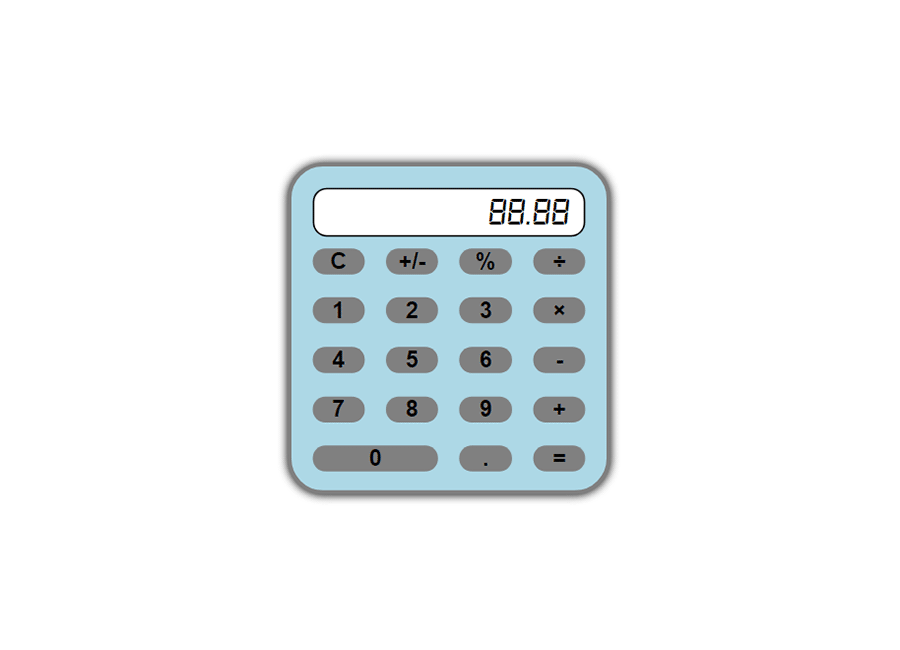
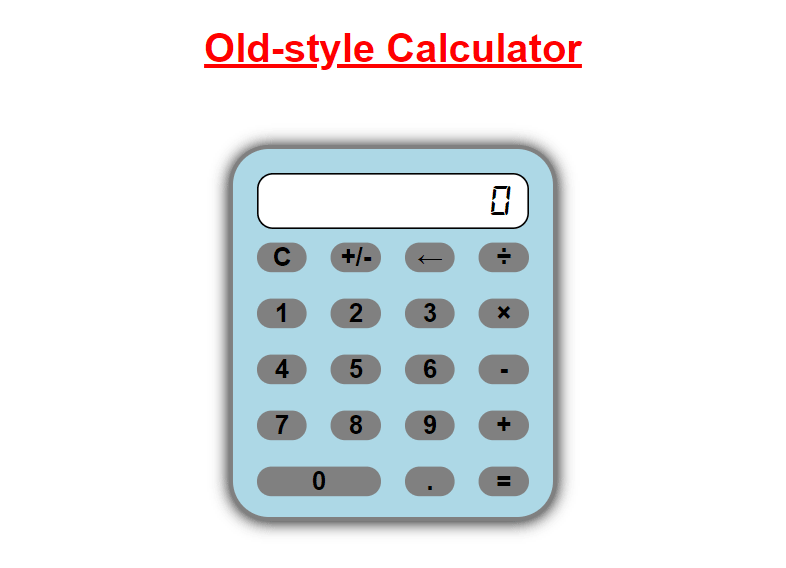
adding more projects

Changed region(s): [[0.2748, 0.2394, 0.7328, 0.9577], [0.2443, 0.0599, 0.7328, 0.1197]]

diff --git a/index.html b/index.html
@@ -140,7 +140,7 @@
       <h2 class="text-center text-uppercase text-white">Portfolio</h2>
       <hr class="star-light mb-5">
       <div class="row">
-        <div class="col-md-6 col-lg-4">
+        <div class="col-md-6 col-lg-3">
           <a class="portfolio-item d-block mx-auto" href="#portfolio-modal-1">
             <div class="portfolio-item-caption d-flex position-absolute h-100 w-100">
               <div class="portfolio-item-caption-content my-auto w-100 text-center">
@@ -150,7 +150,7 @@
             <img class="img-fluid" src="img/portfolio/magicbrain.png" alt="">
           </a>
         </div>
-        <div class="col-md-6 col-lg-4">
+        <div class="col-md-6 col-lg-3">
           <a class="portfolio-item d-block mx-auto" href="#portfolio-modal-2">
             <div class="portfolio-item-caption d-flex position-absolute h-100 w-100">
               <div class="portfolio-item-caption-content my-auto w-100 text-center">
@@ -160,18 +160,8 @@
             <img class="img-fluid" src="img/portfolio/starwarsguide.png" alt="">
           </a>
         </div>
-        <div class="col-md-6 col-lg-4">
+        <div class="col-md-6 col-lg-3">
           <a class="portfolio-item d-block mx-auto" href="#portfolio-modal-3">
-            <div class="portfolio-item-caption d-flex position-absolute h-100 w-100">
-              <div class="portfolio-item-caption-content my-auto w-100 text-center">
-                <i class="fas fa-search-plus fa-3x"></i>
-              </div>
-            </div>
-            <img class="img-fluid" src="img/portfolio/robofriends.png" alt="">
-          </a>
-        </div>
-        <div class="col-md-6 col-lg-4">
-          <a class="portfolio-item d-block mx-auto" href="#portfolio-modal-4">
             <div class="portfolio-item-caption d-flex position-absolute h-100 w-100">
               <div class="portfolio-item-caption-content my-auto w-100 text-center">
                 <i class="fas fa-search-plus fa-3x"></i>
@@ -180,8 +170,38 @@
             <img class="img-fluid" src="img/portfolio/solar-studio.jpg" alt="">
           </a>
         </div>
-        <div class="col-md-6 col-lg-4">
+        <div class="col-md-6 col-lg-3">
+          <a class="portfolio-item d-block mx-auto" href="#portfolio-modal-4">
+            <div class="portfolio-item-caption d-flex position-absolute h-100 w-100">
+              <div class="portfolio-item-caption-content my-auto w-100 text-center">
+                <i class="fas fa-search-plus fa-3x"></i>
+              </div>
+            </div>
+            <img class="img-fluid" src="img/portfolio/robofriends.png" alt="">
+          </a>
+        </div>
+        <div class="col-md-6 col-lg-3">
           <a class="portfolio-item d-block mx-auto" href="#portfolio-modal-5">
+            <div class="portfolio-item-caption d-flex position-absolute h-100 w-100">
+              <div class="portfolio-item-caption-content my-auto w-100 text-center">
+                <i class="fas fa-search-plus fa-3x"></i>
+              </div>
+            </div>
+            <img class="img-fluid" src="img/portfolio/landingpage.png" alt="">
+          </a>
+        </div>
+        <div class="col-md-6 col-lg-3">
+          <a class="portfolio-item d-block mx-auto" href="#portfolio-modal-6">
+            <div class="portfolio-item-caption d-flex position-absolute h-100 w-100">
+              <div class="portfolio-item-caption-content my-auto w-100 text-center">
+                <i class="fas fa-search-plus fa-3x"></i>
+              </div>
+            </div>
+            <img class="img-fluid" src="img/portfolio/calculator.png" alt="">
+          </a>
+        </div>
+        <div class="col-md-6 col-lg-3">
+          <a class="portfolio-item d-block mx-auto" href="#portfolio-modal-7">
             <div class="portfolio-item-caption d-flex position-absolute h-100 w-100">
               <div class="portfolio-item-caption-content my-auto w-100 text-center">
                 <i class="fas fa-search-plus fa-3x"></i>
@@ -190,8 +210,8 @@
             <img class="img-fluid" src="img/portfolio/shoppinglist.png" alt="">
           </a>
         </div>
-        <div class="col-md-6 col-lg-4">
-          <a class="portfolio-item d-block mx-auto" href="#portfolio-modal-6">
+        <div class="col-md-6 col-lg-3">
+          <a class="portfolio-item d-block mx-auto" href="#portfolio-modal-8">
             <div class="portfolio-item-caption d-flex position-absolute h-100 w-100">
               <div class="portfolio-item-caption-content my-auto w-100 text-center">
                 <i class="fas fa-search-plus fa-3x"></i>
@@ -211,7 +231,7 @@
       <hr class="star-dark mb-5">
       <div class="row">
         <div class="col-lg-8 mx-auto">
-          <form name="sentMessage" id="contactForm" novalidate="novalidate" action="http://localhost:3000/" method="POST">
+          <form name="sentMessage" id="contactForm" novalidate="novalidate" action="https://formspree.io/guilherme.brunner@gmail.com" method="POST">
             <div class="control-group">
               <div class="form-group controls">
                 <label>Name</label>
@@ -366,8 +386,36 @@
     </div>
   </div>
 
-  <!-- Portfolio Modal 3 -->
+    <!-- Portfolio Modal 3 -->
   <div class="portfolio-modal mfp-hide" id="portfolio-modal-3">
+    <div class="portfolio-modal-dialog bg-white">
+      <a class="close-button d-none d-md-block portfolio-modal-dismiss" href="#">
+        <i class="fa fa-3x fa-times"></i>
+      </a>
+      <div class="container text-center">
+          <div>
+            <h2 class="text-secondary text-uppercase text-center mb-0">Architecture & Engineering Firm Website</h2>
+            <hr class="star-dark">
+            <div class="modal-row">
+              <img class="img-modal" src="img/portfolio/solar-studio.jpg" alt="">
+              <p class="mb-2 mt-2 desc">A responsive and mobile friendly firm website. Currently under construction.<br>HMTL | CSS | JAVASCRIPT</p>
+            </div>
+            <div class="button-row-column">
+                <a class="btn btn-primary btn-lg rounded-pill" href="https://solarstudio.netlify.com/" target='_blank'>
+                  <i class="fa fa-close"></i>Live Preview
+                </a>                      
+                <a class="btn btn-primary btn-lg rounded-pill portfolio-modal-dismiss" href="#">
+                  <i class="fa fa-close"></i>
+                  Close Project
+                </a>             
+            </div>
+          </div>
+      </div>
+    </div>
+  </div>
+
+  <!-- Portfolio Modal 4 -->
+  <div class="portfolio-modal mfp-hide" id="portfolio-modal-4">
     <div class="portfolio-modal-dialog bg-white">
       <a class="close-button d-none d-md-block portfolio-modal-dismiss" href="#">
         <i class="fa fa-3x fa-times"></i>
@@ -397,22 +445,22 @@
     </div>
   </div>
 
-    <!-- Portfolio Modal 4 -->
-  <div class="portfolio-modal mfp-hide" id="portfolio-modal-4">
+  <!-- Portfolio Modal 5 -->
+  <div class="portfolio-modal mfp-hide" id="portfolio-modal-5">
     <div class="portfolio-modal-dialog bg-white">
       <a class="close-button d-none d-md-block portfolio-modal-dismiss" href="#">
         <i class="fa fa-3x fa-times"></i>
       </a>
       <div class="container text-center">
           <div>
-            <h2 class="text-secondary text-uppercase text-center mb-0">Architecture & Engineering Firm Website</h2>
+            <h2 class="text-secondary text-uppercase text-center mb-0">App Landing Page</h2>
             <hr class="star-dark">
             <div class="modal-row">
-              <img class="img-modal" src="img/portfolio/solar-studio.jpg" alt="">
-              <p class="mb-2 mt-2 desc">A responsive and mobile friendly firm website. Still under construction.<br>HMTL | CSS | JAVASCRIPT</p>
+              <img class="img-modal" src="img/portfolio/landingpage.png" alt="">
+              <p class="mb-2 mt-2 desc">An app landing page with Product Information and Contact Form. Currently under construction<br>HMTL | CSS</p>
             </div>
             <div class="button-row-column">
-                <a class="btn btn-primary btn-lg rounded-pill" href="https://solarstudio.netlify.com/" target='_blank'>
+                <a class="btn btn-primary btn-lg rounded-pill" href="https://transporte-escolar.netlify.com/" target='_blank'>
                   <i class="fa fa-close"></i>Live Preview
                 </a>                      
                 <a class="btn btn-primary btn-lg rounded-pill portfolio-modal-dismiss" href="#">
@@ -425,8 +473,39 @@
     </div>
   </div>
 
-  <!-- Portfolio Modal 5 -->
-  <div class="portfolio-modal mfp-hide" id="portfolio-modal-5">
+  <!-- Portfolio Modal 6 -->
+  <div class="portfolio-modal mfp-hide" id="portfolio-modal-6">
+    <div class="portfolio-modal-dialog bg-white">
+      <a class="close-button d-none d-md-block portfolio-modal-dismiss" href="#">
+        <i class="fa fa-3x fa-times"></i>
+      </a>
+      <div class="container text-center">
+          <div>
+            <h2 class="text-secondary text-uppercase text-center mb-0">Old-Style Calculator</h2>
+            <hr class="star-dark">
+            <div class="modal-row">
+              <img class="img-modal" src="img/portfolio/calculator.png" alt="">
+              <p class="mb-2 mt-2 desc">An Old-Style Calculator for basic math operations.<br>HMTL | CSS | JAVASCRIPT</p>
+            </div>
+            <div class="button-row-column">
+                <a class="btn btn-primary btn-lg rounded-pill" href="https://github.com/sgtbrunner/calculator" target='_blank'>
+                  <i class="fa fa-close"></i>on Github
+                </a>
+                <a class="btn btn-primary btn-lg rounded-pill" href="https://sgtbrunner.github.io/calculator" target='_blank'>
+                  <i class="fa fa-close"></i>Live Preview
+                </a>                      
+                <a class="btn btn-primary btn-lg rounded-pill portfolio-modal-dismiss" href="#">
+                  <i class="fa fa-close"></i>
+                  Close Project
+                </a>             
+            </div>
+          </div>
+      </div>
+    </div>
+  </div>
+
+  <!-- Portfolio Modal 7 -->
+  <div class="portfolio-modal mfp-hide" id="portfolio-modal-7">
     <div class="portfolio-modal-dialog bg-white">
       <a class="close-button d-none d-md-block portfolio-modal-dismiss" href="#">
         <i class="fa fa-3x fa-times"></i>
@@ -456,8 +535,8 @@
     </div>
   </div>
 
-  <!-- Portfolio Modal 6 -->
-  <div class="portfolio-modal mfp-hide" id="portfolio-modal-6">
+  <!-- Portfolio Modal 8 -->
+  <div class="portfolio-modal mfp-hide" id="portfolio-modal-8">
     <div class="portfolio-modal-dialog bg-white">
       <a class="close-button d-none d-md-block portfolio-modal-dismiss" href="#">
         <i class="fa fa-3x fa-times"></i>
